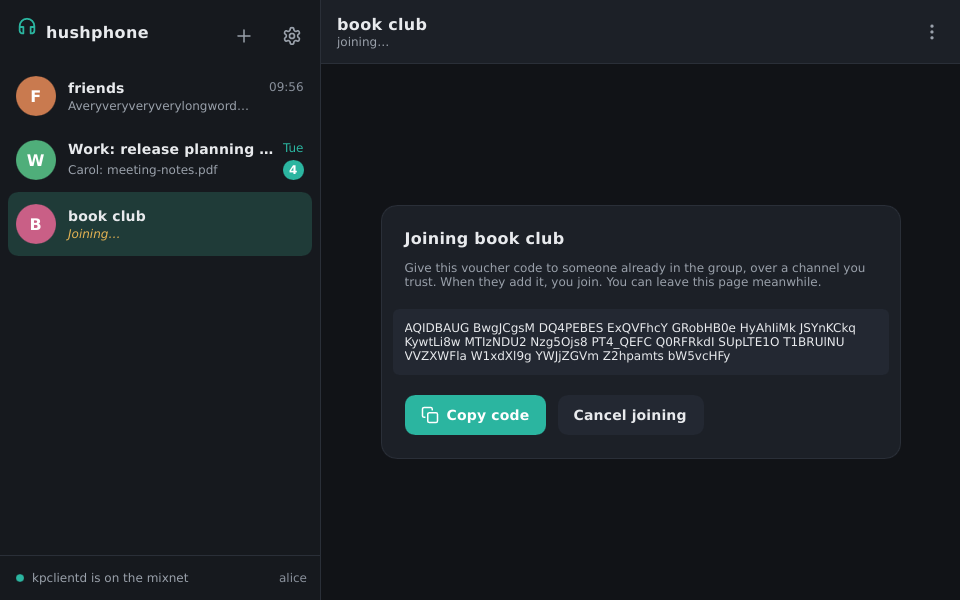
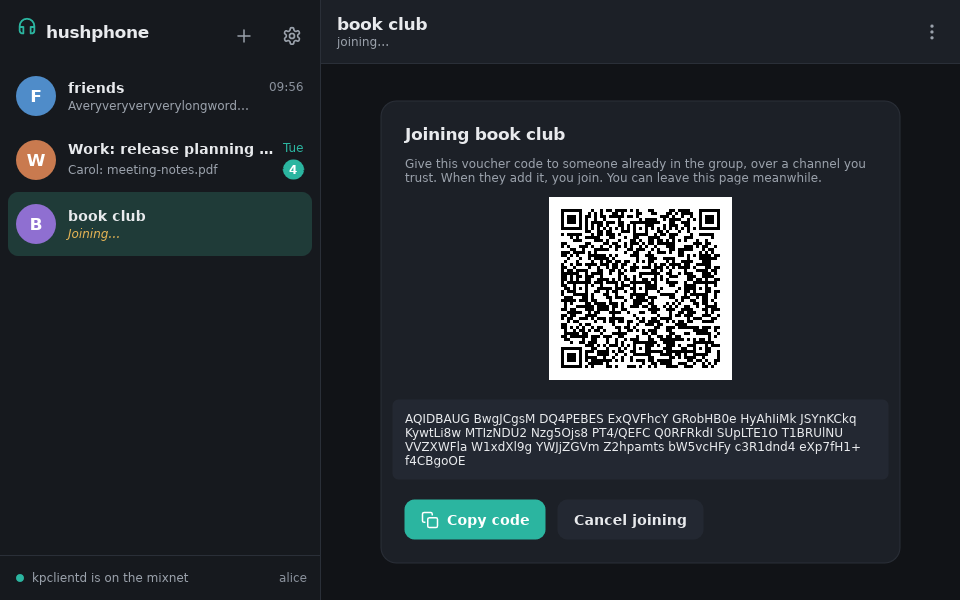
voucher card: show the code as a QR code

diff --git a/src/bridge.rs b/src/bridge.rs
@@ -699,6 +699,7 @@ impl App {
         st.set_current_joined(v.joined);
         st.set_current_members(v.members.len() as i32);
         st.set_code(group_code(&v.code).into());
+        st.set_code_qr(qr_image(&v.code));
         st.set_minting(v.minting);
         st.set_joining_note(if v.joined { String::new() } else { model::joining_note(&c.lines) }.into());
         st.set_adding(v.adding);
@@ -805,6 +806,24 @@ fn group_code(code: &str) -> String {
         .join(" ")
 }
 
+/// The voucher code as a QR code, one pixel per module, dark on light with a quiet zone of four:
+/// byte mode, level M, the smallest version that fits, as the T-Deck shows it.
+fn qr_image(code: &str) -> slint::Image {
+    use qrcodegen::{QrCode, QrCodeEcc, QrSegment, Version};
+    let segs = [QrSegment::make_bytes(code.as_bytes())];
+    let Ok(qr) = QrCode::encode_segments_advanced(&segs, QrCodeEcc::Medium, Version::MIN, Version::MAX, None, false) else {
+        return slint::Image::default();
+    };
+    let n = qr.size() + 8;
+    let mut buf = slint::SharedPixelBuffer::<slint::Rgb8Pixel>::new(n as u32, n as u32);
+    for (i, p) in buf.make_mut_slice().iter_mut().enumerate() {
+        let (x, y) = (i as i32 % n - 4, i as i32 / n - 4);
+        let v = if qr.get_module(x, y) { 0 } else { 255 };
+        *p = slint::Rgb8Pixel::new(v, v, v);
+    }
+    slint::Image::from_rgb8(buf)
+}
+
 /// Make `model` hold `new`, touching only the rows that changed.
 fn sync<T: Clone + PartialEq + 'static>(model: &VecModel<T>, new: Vec<T>) {
     let old = model.row_count();
@@ -830,6 +849,26 @@ mod tests {
     fn codes_are_grouped_for_reading() {
         assert_eq!(group_code("AQIDBAUGBwgJ"), "AQIDBAUG BwgJ");
         assert_eq!(group_code(""), "");
+    }
+
+    #[test]
+    fn qr_decodes_to_the_code() {
[1 lines of base64/hex data omitted]
+        let img = qr_image(code).to_rgb8().unwrap();
+        let n = img.width() as usize;
+        // 53 modules is version 9, the smallest that holds 168 bytes at level M; plus the quiet zone.
+        assert_eq!(n, 53 + 8);
+        let px = img.as_slice();
+        assert!(px[..4 * n].iter().all(|p| p.r == 255), "quiet zone");
+        let scale = 4;
+        let mut prep = rqrr::PreparedImage::prepare_from_greyscale(n * scale, n * scale, |x, y| px[y / scale * n + x / scale].r);
+        let grids = prep.detect_grids();
+        assert_eq!(grids.len(), 1);
+        let (meta, text) = grids[0].decode().unwrap();
+        assert_eq!(text, code);
+        assert_eq!(meta.version.0, 9);
+        assert_eq!(meta.ecc_level, 0); // M
+        assert!(qr_image("").size().width > 0);
     }
 
     #[test]

diff --git a/docs/vouchers.md b/docs/vouchers.md
@@ -29,10 +29,11 @@ time it runs.
 
 ![Minting a voucher over the mixnet](vouchers/minting.png)
 
-Once minted, the group's page shows the voucher code. Press **Copy code** and give it to a member
-of the group over a channel you trust. Then wait: nothing else is asked of you.
+Once minted, the group's page shows the voucher code, also as a QR code: any QR scanner reads it
+as the code's text. Press **Copy code**, or let them scan it, and give it to a member of the group
+over a channel you trust. Then wait: nothing else is asked of you.
 
-![The voucher code, ready to copy](vouchers/voucher-code.png)
+![The voucher code, as a QR code and ready to copy](vouchers/voucher-code.png)
 
 When the member adds the code, the group's messages and members appear on your side, and the
 *Joining…* mark goes. The wait is the mixnet's: a few minutes is normal.
